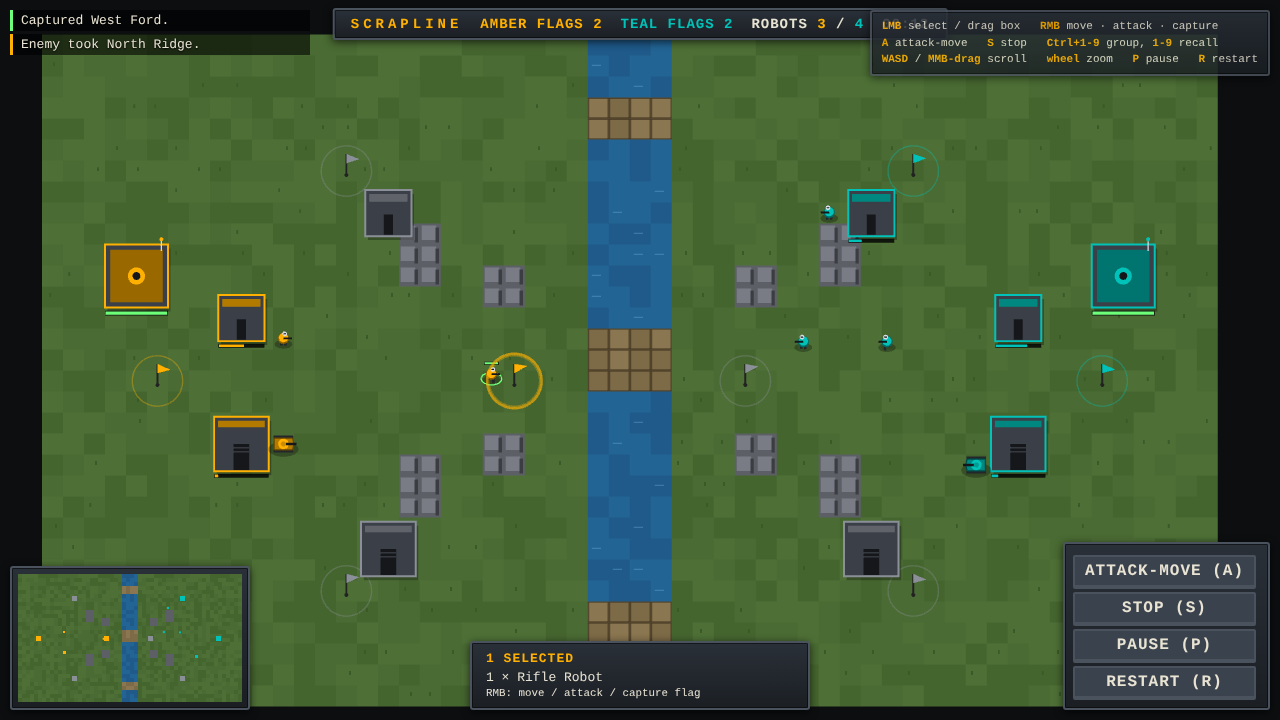
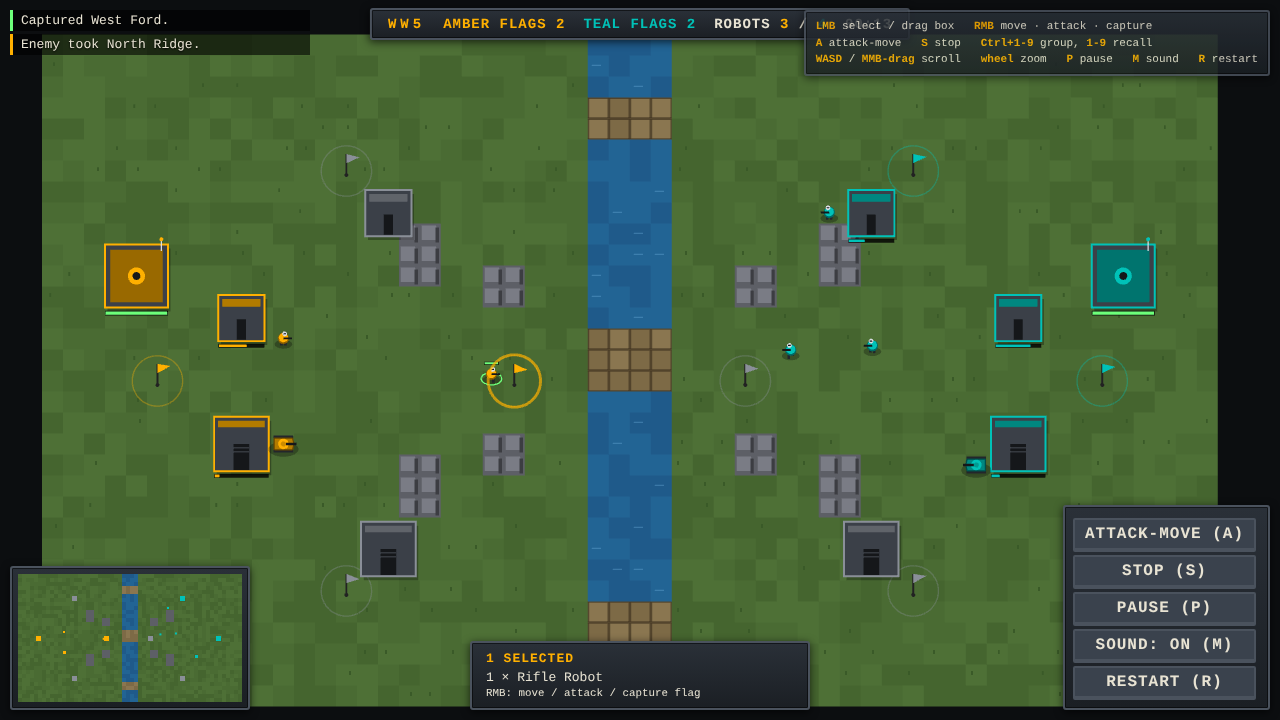
Add synthesised sound effects with mute toggle
Web Audio gunfire, explosions, capture jingles, command/spawn blips and win/lose
stingers; distance-attenuated and rate-limited. Browser test now checks audio.

Claude-Session: https://claude.ai/code/session_01CgZDST9TwiPSCrQ5buL1da

diff --git a/src/audio/sfx.ts b/src/audio/sfx.ts
@@ -1,0 +1,162 @@
+/**
+ * Synthesised sound effects (Web Audio). No audio files: every sound is generated from oscillators and
+ * filtered noise, so the game stays 100% original and tiny. Nothing plays until the first user gesture.
+ */
+export class Sfx {
+  private ctx: AudioContext | null = null;
+  private master!: GainNode;
+  private noiseBuf!: AudioBuffer;
+  private unlocked = false;
+  private last: Record<string, number> = {};
+  private voices = 0;
+  muted = false;
+  volume = 0.5;
+  /** number of sounds actually started (used by the browser test) */
+  played = 0;
+
+  /** Call from any user gesture (pointer/key). Safe to call repeatedly. */
+  unlock() {
+    this.unlocked = true;
+    const c = this.ensure();
+    if (c && c.state === 'suspended') void c.resume();
+  }
+
+  get state(): string {
+    return this.ctx?.state ?? 'none';
+  }
+
+  setMuted(m: boolean) {
+    this.muted = m;
+    if (this.master) this.master.gain.value = m ? 0 : this.volume;
+  }
+
+  private ensure(): AudioContext | null {
+    if (!this.unlocked) return null;
+    if (!this.ctx) {
+      try {
+        const Ctor = window.AudioContext || (window as unknown as { webkitAudioContext: typeof AudioContext }).webkitAudioContext;
+        this.ctx = new Ctor();
+        this.master = this.ctx.createGain();
+        this.master.gain.value = this.muted ? 0 : this.volume;
+        const comp = this.ctx.createDynamicsCompressor(); // keeps big battles from clipping
+        this.master.connect(comp).connect(this.ctx.destination);
+        const len = this.ctx.sampleRate;
+        this.noiseBuf = this.ctx.createBuffer(1, len, this.ctx.sampleRate);
+        const d = this.noiseBuf.getChannelData(0);
+        for (let i = 0; i < len; i++) d[i] = Math.random() * 2 - 1;
+      } catch {
+        return null;
+      }
+    }
+    return this.ctx;
+  }
+
+  /** rate-limit a sound name and the total number of overlapping voices */
+  private gate(name: string, minGapMs: number): AudioContext | null {
+    const c = this.ensure();
+    if (!c || c.state !== 'running') return null;
+    const now = performance.now();
+    if (now - (this.last[name] ?? -1e9) < minGapMs || this.voices > 24) return null;
+    this.last[name] = now;
+    return c;
+  }
+
+  private done(dur: number) {
+    this.voices++;
+    this.played++;
+    setTimeout(() => this.voices--, dur * 1000);
+  }
+
+  private tone(c: AudioContext, f0: number, f1: number, dur: number, type: OscillatorType, vol: number, delay = 0) {
+    const t = c.currentTime + delay;
+    const o = c.createOscillator();
+    const g = c.createGain();
+    o.type = type;
+    o.frequency.setValueAtTime(f0, t);
+    o.frequency.exponentialRampToValueAtTime(Math.max(20, f1), t + dur);
+    g.gain.setValueAtTime(vol, t);
+    g.gain.exponentialRampToValueAtTime(0.0001, t + dur);
+    o.connect(g).connect(this.master);
+    o.start(t);
+    o.stop(t + dur + 0.02);
+  }
+
+  private noise(c: AudioContext, dur: number, vol: number, f0: number, f1: number, delay = 0) {
+    const t = c.currentTime + delay;
+    const s = c.createBufferSource();
+    s.buffer = this.noiseBuf;
+    const f = c.createBiquadFilter();
+    f.type = 'lowpass';
+    f.frequency.setValueAtTime(f0, t);
+    f.frequency.exponentialRampToValueAtTime(Math.max(40, f1), t + dur);
+    const g = c.createGain();
+    g.gain.setValueAtTime(vol, t);
+    g.gain.exponentialRampToValueAtTime(0.0001, t + dur);
+    s.connect(f).connect(g).connect(this.master);
+    s.start(t);
+    s.stop(t + dur + 0.02);
+  }
+
+  // ------------------------------------------------------------------ sounds (vol is 0..1 distance falloff)
+
+  rifle(vol: number) {
+    const c = this.gate('rifle', 45);
+    if (!c) return;
+    this.noise(c, 0.09, 0.22 * vol, 5200, 900);
+    this.tone(c, 900, 260, 0.07, 'square', 0.08 * vol);
+    this.done(0.1);
+  }
+
+  tank(vol: number) {
+    const c = this.gate('tank', 70);
+    if (!c) return;
+    this.noise(c, 0.22, 0.4 * vol, 2200, 120);
+    this.tone(c, 150, 45, 0.25, 'sawtooth', 0.28 * vol);
+    this.done(0.3);
+  }
+
+  boom(big: boolean, vol: number) {
+    const c = this.gate('boom', 60);
+    if (!c) return;
+    const d = big ? 0.9 : 0.4;
+    this.noise(c, d, (big ? 0.7 : 0.45) * vol, 1800, 60);
+    this.tone(c, big ? 90 : 140, 28, d, 'sine', (big ? 0.6 : 0.35) * vol);
+    this.done(d);
+  }
+
+  /** rising two-note jingle for a capture, falling one for a loss */
+  capture(mine: boolean) {
+    const c = this.gate('capture', 200);
+    if (!c) return;
+    if (mine) {
+      this.tone(c, 440, 440, 0.14, 'triangle', 0.25);
+      this.tone(c, 660, 660, 0.25, 'triangle', 0.25, 0.12);
+    } else {
+      this.tone(c, 330, 330, 0.16, 'sawtooth', 0.2);
+      this.tone(c, 220, 200, 0.3, 'sawtooth', 0.2, 0.14);
+    }
+    this.done(0.45);
+  }
+
+  command() {
+    const c = this.gate('command', 60);
+    if (!c) return;
+    this.tone(c, 700, 1000, 0.06, 'square', 0.07);
+    this.done(0.08);
+  }
+
+  spawn() {
+    const c = this.gate('spawn', 120);
+    if (!c) return;
+    this.tone(c, 300, 600, 0.12, 'triangle', 0.1);
+    this.done(0.15);
+  }
+
+  end(win: boolean) {
+    const c = this.ensure();
+    if (!c || c.state !== 'running') return;
+    const notes = win ? [392, 494, 587, 784] : [392, 330, 262, 196];
+    notes.forEach((f, i) => this.tone(c, f, f, 0.35, win ? 'triangle' : 'sawtooth', 0.28, i * 0.18));
+    this.played++;
+  }
+}

diff --git a/src/render/battle.ts b/src/render/battle.ts
@@ -1,6 +1,7 @@
 import Phaser from 'phaser';
 import { T_BRIDGE, T_GRASS, T_ROCK, T_WATER } from '../data/maps';
 import { BUILDINGS, TICKS_PER_SEC, UNITS } from '../data/units';
+import { Sfx } from '../audio/sfx';
 import { Match } from '../sim/match';
 import type { Building, Unit } from '../sim/types';
 
@@ -36,6 +37,7 @@ export class BattleScene extends Phaser.Scene {
   private keys!: Record<string, Phaser.Input.Keyboard.Key>;
   private hudTimer = 0;
   private panelKey = '';
+  private sfx = new Sfx();
   private miniTerrain!: HTMLCanvasElement;
   private ended = false;
 
@@ -60,6 +62,12 @@ export class BattleScene extends Phaser.Scene {
       cam.setZoom(Phaser.Math.Clamp(cam.zoom * (dy > 0 ? 0.9 : 1.1), 0.5, 2.5));
     });
 
+    // browsers only allow audio after a user gesture
+    const unlock = () => this.sfx.unlock();
+    window.addEventListener('pointerdown', unlock);
+    window.addEventListener('keydown', unlock);
+    $('b-mute').onclick = () => this.toggleMute();
+
     $('b-attack').onclick = () => this.armAttack();
     $('b-stop').onclick = () => this.stopSel();
     $('b-pause').onclick = () => this.togglePause();
@@ -81,6 +89,7 @@ export class BattleScene extends Phaser.Scene {
     // Test/debug hook: lets the Playwright smoke test drive and inspect the real running game.
     (window as unknown as Record<string, unknown>).__scrapline = {
       scene: this,
+      sfx: this.sfx,
       tileSize: TS,
       screenOf: (tx: number, ty: number) => {
         const cam = this.cameras.main;
@@ -115,6 +124,20 @@ export class BattleScene extends Phaser.Scene {
     this.seed++;
     this.newMatch();
   }
+  private toggleMute() {
+    this.sfx.setMuted(!this.sfx.muted);
+    $('b-mute').textContent = this.sfx.muted ? 'Sound: OFF (M)' : 'Sound: ON (M)';
+  }
+
+  /** 0..1 loudness by distance from what the player is looking at; off-screen fights are faint or silent */
+  private loudness(tx: number, ty: number): number {
+    const v = this.cameras.main.worldView;
+    const d = Math.hypot(tx * TS - (v.x + v.width / 2), ty * TS - (v.y + v.height / 2));
+    const reach = Math.hypot(v.width, v.height) * 0.75;
+    const l = 1 - d / reach;
+    return l < 0.05 ? 0 : Math.min(1, l);
+  }
+
   private togglePause() {
     this.paused = !this.paused;
     $('b-pause').textContent = this.paused ? 'Resume (P)' : 'Pause (P)';
@@ -137,6 +160,7 @@ export class BattleScene extends Phaser.Scene {
         }
       }
     } else if (k === 'p') this.togglePause();
+    else if (k === 'm') this.toggleMute();
     else if (k === 'r') this.restart();
     else if (k === 'a') this.armAttack();
     else if (k === 's') this.stopSel();
@@ -234,6 +258,7 @@ export class BattleScene extends Phaser.Scene {
 
   private marker(x: number, y: number, color: number) {
     this.fx.push({ x, y, ttl: 700, life: 700, color, kind: 'marker' });
+    this.sfx.command();
   }
 
   // --------------------------------------------------------------- update
@@ -273,18 +298,26 @@ export class BattleScene extends Phaser.Scene {
     const w = this.match.world;
     for (const e of w.events) {
       if (e.t === 'shot') {
+        const l = this.loudness(e.x1, e.y1);
+        if (l > 0) (e.unit === 'tank' ? this.sfx.tank(l) : this.sfx.rifle(l));
         this.fx.push({ x: e.x1, y: e.y1, x2: e.x2 + (e.hit ? 0 : (Math.random() - 0.5) * 0.8), y2: e.y2 + (e.hit ? 0 : (Math.random() - 0.5) * 0.8), ttl: 90, life: 90, color: teamColor(e.owner), kind: 'tracer' });
+      } else if (e.t === 'spawn') {
+        if (e.owner === PLAYER) this.sfx.spawn();
       } else if (e.t === 'death') {
+        const l = this.loudness(e.x, e.y);
+        if (l > 0) this.sfx.boom(e.big, l);
         this.fx.push({ x: e.x, y: e.y, ttl: e.big ? 900 : 500, life: e.big ? 900 : 500, color: 0xff8a2a, kind: 'boom', big: e.big });
       } else if (e.t === 'capture') {
         const t = w.territories[e.territory];
         this.fx.push({ x: t.fx + 0.5, y: t.fy + 0.5, ttl: 900, life: 900, color: teamColor(e.owner), kind: 'ring' });
         const mine = e.owner === PLAYER;
         const lost = e.prev === PLAYER;
+        if (mine || lost) this.sfx.capture(mine);
         this.feed(mine ? `Captured ${t.name}.` : lost ? `LOST ${t.name}!` : `Enemy took ${t.name}.`, mine ? 'won' : lost ? 'lost' : '');
       } else if (e.t === 'victory') {
         this.ended = true;
         const win = e.winner === PLAYER;
+        this.sfx.end(win);
         $('end').style.display = 'flex';
         const title = $('end-title');
         title.textContent = e.winner === -1 ? 'DRAW' : win ? 'VICTORY' : 'DEFEAT';

diff --git a/index.html b/index.html
@@ -56,7 +56,7 @@
       <div id="help" class="panel">
         <b>LMB</b> select / drag box &nbsp; <b>RMB</b> move · attack · capture<br />
         <b>A</b> attack-move &nbsp; <b>S</b> stop &nbsp; <b>Ctrl+1-9</b> group, <b>1-9</b> recall<br />
-        <b>WASD</b> / <b>MMB-drag</b> scroll &nbsp; <b>wheel</b> zoom &nbsp; <b>P</b> pause &nbsp; <b>R</b> restart
+        <b>WASD</b> / <b>MMB-drag</b> scroll &nbsp; <b>wheel</b> zoom &nbsp; <b>P</b> pause &nbsp; <b>M</b> sound &nbsp; <b>R</b> restart
       </div>
       <div id="minimap-wrap" class="panel"><canvas id="minimap" width="224" height="128"></canvas></div>
       <div id="sel" class="panel"><div class="h">NO SELECTION</div>Drag a box around your robots, or click a factory.</div>
@@ -64,6 +64,7 @@
         <button id="b-attack">Attack-move (A)</button>
         <button id="b-stop">Stop (S)</button>
         <button id="b-pause">Pause (P)</button>
+        <button id="b-mute">Sound: ON (M)</button>
         <button id="b-restart">Restart (R)</button>
       </div>
       <div id="end"><h1 id="end-title"></h1><p id="end-sub"></p><button id="end-btn">Play again</button></div>

diff --git a/src/sim/types.ts b/src/sim/types.ts
@@ -65,7 +65,7 @@ export type Command =
   | { type: 'togglePause'; building: number };
 
 export type SimEvent =
-  | { t: 'shot'; x1: number; y1: number; x2: number; y2: number; hit: boolean; owner: Owner }
+  | { t: 'shot'; x1: number; y1: number; x2: number; y2: number; hit: boolean; owner: Owner; unit: UnitType }
   | { t: 'death'; x: number; y: number; big: boolean; owner: Owner }
   | { t: 'capture'; territory: number; owner: Owner; prev: Owner }
   | { t: 'spawn'; id: number; owner: Owner }

diff --git a/src/sim/world.ts b/src/sim/world.ts
@@ -367,7 +367,7 @@ export class World {
       const armor = isBuilding(t) ? 'building' : UNITS[t.type].armor;
       this.pendingDamage.push([t, def.damage * def.vs[armor]]);
     }
-    this.events.push({ t: 'shot', x1: u.x, y1: u.y, x2: t.x, y2: t.y, hit, owner: u.owner });
+    this.events.push({ t: 'shot', x1: u.x, y1: u.y, x2: t.x, y2: t.y, hit, owner: u.owner, unit: u.type });
   }
 
   // ---------------------------------------------------------- world passes

diff --git a/README.md b/README.md
@@ -38,6 +38,7 @@ Add `?speed=4` to the URL to run the simulation faster.
 | Mouse wheel | Zoom |
 | Minimap click or drag | Jump the camera |
 | P / R | Pause / restart |
+| M | Mute / unmute sound (all sounds are synthesised in the browser, no audio files) |
 
 ## How it works (Stage 1)
 
